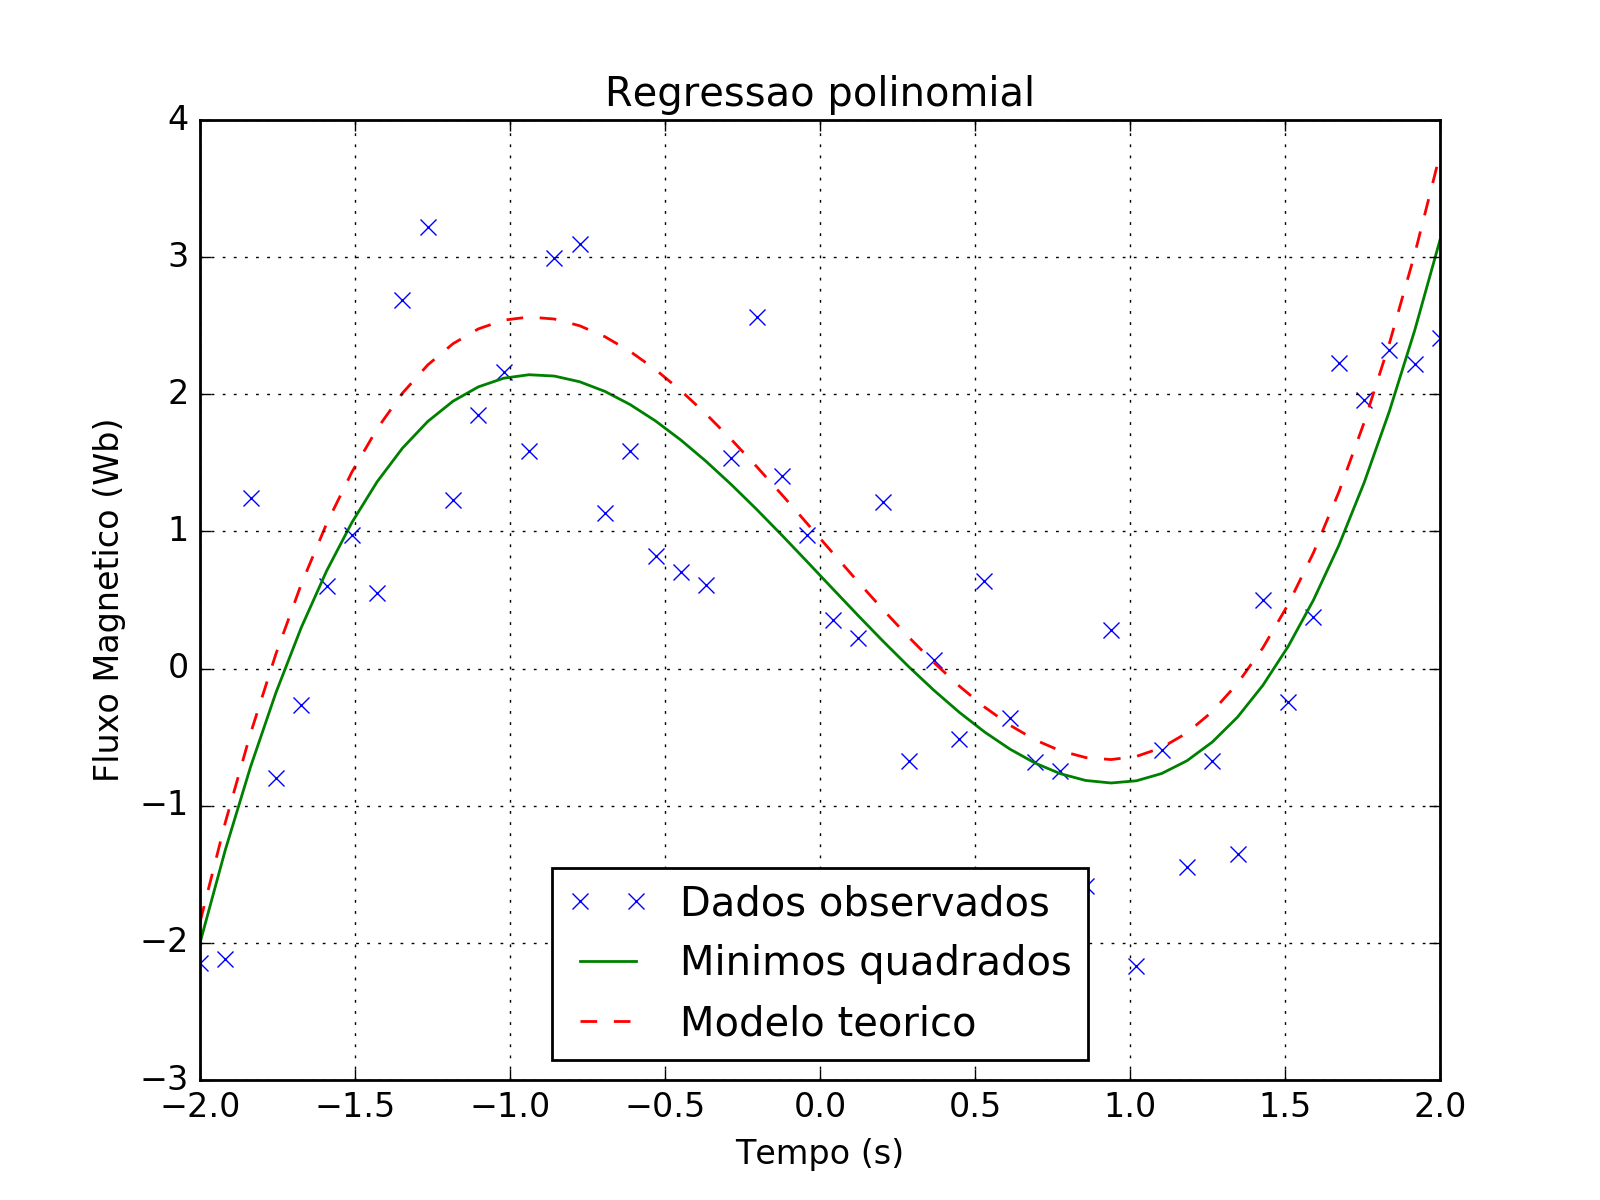
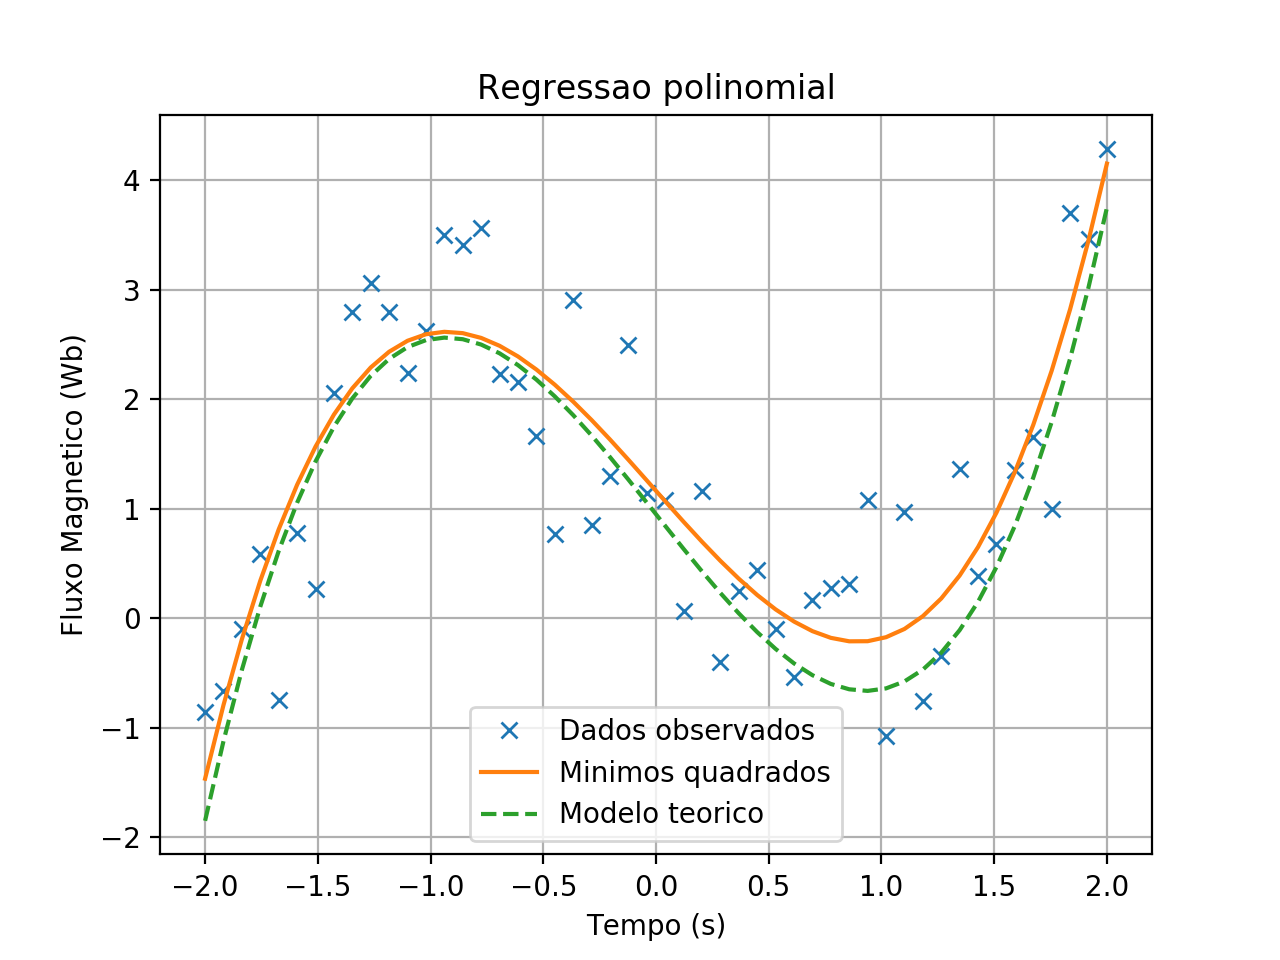
Melhor documentação dos códigos.

diff --git a/exercicio_final.py b/exercicio_final.py
@@ -1,0 +1,103 @@
+import matplotlib.pyplot as plt
+import numpy as np
+
+# GERANDO DADOS DE ENTRADA -------------------------------------------------
+# uma funcao qualquer
+f = lambda x : x**3 - 13.0/5.0 * x + 0.95
+
+# um eixo qualquer com 50 valores de -2 a 2
+x = np.linspace(-2, 2, 50)					
+
+# array de 50 valores aleatorios entre -0.8 e 0.8
+ruido = 0.8 * np.random.randn(50)
+
+# y tem valores proximos a f(x), 
+# para simular dados coletados experimentalmente 
+y = f(x) + ruido
+
+
+# ESCRITA EM ARQUIVOS   ------------------------------------------------------
+# abrir 'dados_coletados.txt' para escrita ('w')
+arq = open('dados_coletados.txt', 'w')	
+
+arq.write('X \t Y \n')
+for i, j in zip(x, y):
+    arq.write(str(i) + '\t' + str(j) + '\n')
+arq.close()
+#------------------------------------------------------------------------------
+
+
+# LEITURA DE ARQUIVOS   -------------------------------------------------------
+# abrir 'dados_coletados.txt' para leitura ('r')
+arq = open('dados_coletados.txt', 'r')
+
+# lista todas as linhas exceto a primeira
+linhas = arq.readlines()[1:]	
+arq.close()
+#------------------------------------------------------------------------------
+
+
+# TRATANDO ENTRADA DE ARQUIVOS   ----------------------------------------------
+x, y = [], []
+for linha in linhas:
+    aux = linha.split()			# quebrando string por espacos
+    x.append( float(aux[0]) )
+    y.append( float(aux[1]) )
+
+
+# EXEMPLO DE REGRESSAO POLINOMIAL ---------------------------------------------
+# nump.array eh muito melhor para parte numerica
+x = np.array(x)
+y = np.array(y)
+
+grau = 3
+# np.polyfit faz regressao polinomial por minimos quadrados
+coefs = np.polyfit(x, y, grau)
+
+# coefs contem os coeficientes de [x^3, x^2, x^1, x^0]
+coefs = coefs[::-1]		# invertendo vetor de coeficientes
+# agora, coefs contem os coeficientes de [x^0, x^1, x^2, x^3]
+
+# print(coefs)
+
+def polinomio(x, coefs):
+	"""
+	Funcao em que, dado um valor x e uma lista de coeficientes [c0, c1, c2, ...],
+	retorna o valor da funcao P(x) = c0*x^0 + c1*x^1, c2*x^2 + ... 
+	
+	Exemplo:
+	>>> polinomio(2, [1, 2, 3])		# 1*(2)^0 + 2*(2)^1 + 3*(2)^2 
+	17
+	"""
+	# Obs.: o texto entre aspas triplas (""") no inici o da funcao eh 
+	# sua documentacao e pode ser acessada usando help(polinomio), tente!
+
+	#----- Uma forma de fazer (sem enumerate): -------
+	y = 0
+	for i, c in enumerate(coefs):
+		y += c * x**i
+
+	#----- Outra forma de fazer (sem enumerate): -------
+	# for i in range(len(coefs)):
+	#	y += coefs[i] * x**i
+
+	return y
+
+# EXEMPLO DE PLOT DE GRAFICO --------------------------------------------------
+# plotar os tres conjuntos de dados sobre o eixo x
+plt.plot(x, y				   , 'x' , label='Dados observados' )
+plt.plot(x, polinomio(x, coefs), '-' , label='Minimos quadrados')
+plt.plot(x, f(x)			   , '--', label='Modelo teorico'   )
+
+# demais detalhes graficos...
+plt.xlabel('Tempo (s)')				# incluir etiqueta do eixo x
+plt.ylabel('Fluxo Magnetico (Wb)')	# incluir etiqueta do eixo y
+plt.legend(loc='best')				# incluir legenda (no 'melhor' local)
+plt.title('Regressao polinomial')	# incluir titulo do Grafico
+plt.grid()							# incluir linhas de grade no grafico
+
+# salvar grafico atual em 'Analise.png'
+plt.savefig('Analise.png', dpi=200)
+
+# mostrar grafico atual
+plt.show()

diff --git a/funcao_saborosa.py b/funcao_saborosa.py
@@ -1,11 +1,18 @@
 def funcao_saborosa(lista):
-	'''Funcao que recebe uma lista de palavras e retorna uma tupla
-		contendo a menor e a maior palavra da lista'''
+	"""Funcao que recebe uma lista de palavras e retorna uma tupla
+		contendo a menor e a maior palavra da lista"""
 	if lista == []:
+		# se a lista eh vazia, retorna uma tupĺa vazia
 		return tuple()
 	else:
-		lista.sort(key = len)
-		return (lista[0], lista[-1])
+		# uma forma de fazer
+		return max(lista, key=len), min(lista, key=len)
+		
+		# # outra forma de fazer (ordenando)
+		# l_ordenada = sorted(lista, key = len)
+		# # obs.: ordenar todos os itens eh mais custoso do que
+		# # apenas buscar o maior e o menor
+		# return l_ordenada[0], l_ordenada[-1]
 
 palavras = ['ventilador', 'cafe', 'oculos', 'pneumoultramicroscopicossilicovulcaniconiose']
 

diff --git a/grafico_pizza.py b/grafico_pizza.py
@@ -1,7 +1,7 @@
 import numpy as np
 import matplotlib.pyplot as plt
 
-c = [0.2, 0.5, 0.6, 4]
+c = [0.2, 0.5, 0.6, 4.0]	# proporcoes
 nomes = ['feijao', 'arroz', 'carne', 'batata']
 cores = ['maroon', 'floralwhite', 'lightcoral', 'goldenrod']
 # DICA: https://matplotlib.org/examples/color/named_colors.html
@@ -10,3 +10,4 @@ destaque = (0, 0.3, 0, 0.1)
 plt.pie(c, labels=nomes, colors = cores, explode = destaque)
 
 plt.axis('equal')
+plt.show()
